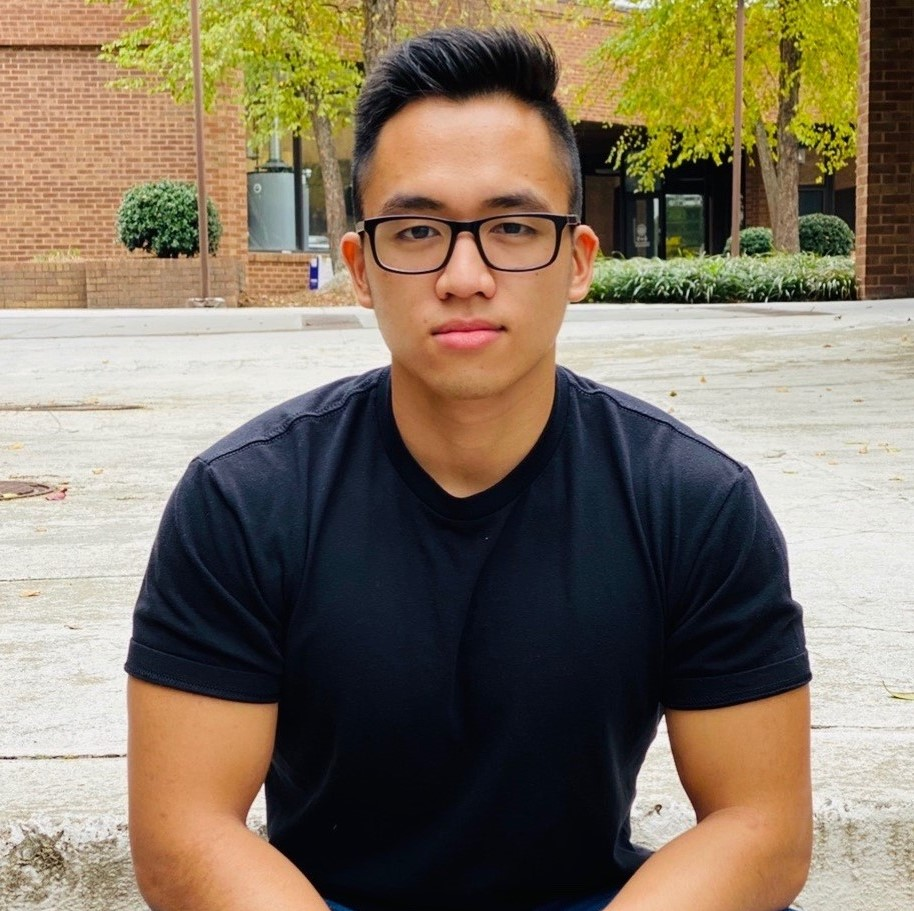
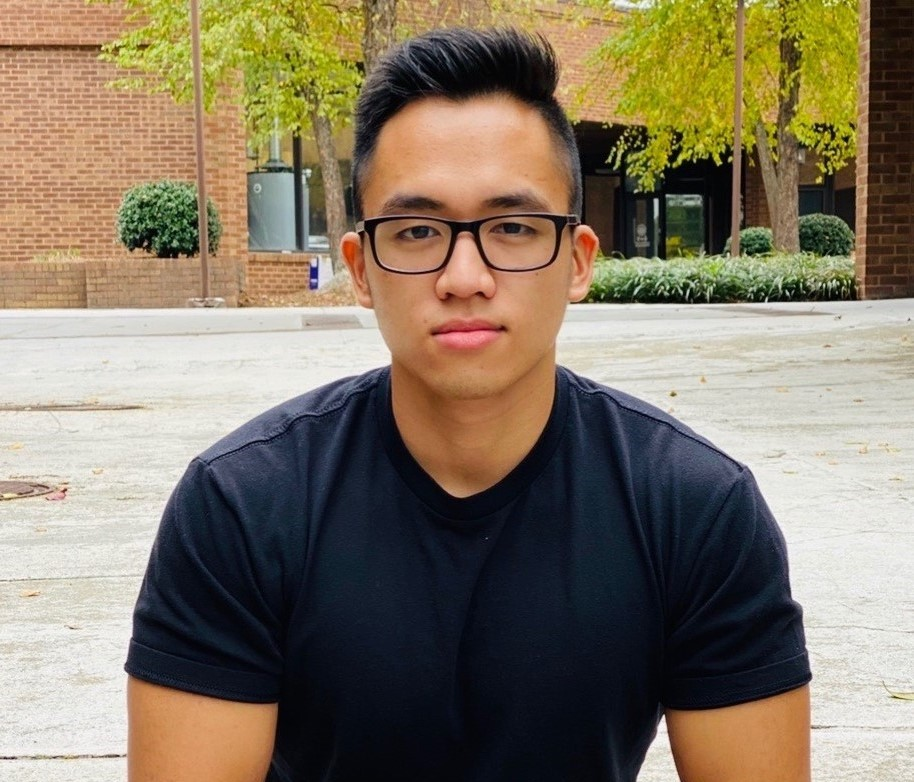
finished results
- didn't  need class sports since it didn't need to be updated in css

diff --git a/index.html b/index.html
@@ -93,7 +93,7 @@ Web Programming
             <h3>List of Hobbies & Interest</h3>
             <ul>
                 <li><span class="red">Sports</span>
-                    <ul class="sports">
+                    <ul>
                         <li>
                             <a href="https://spikeball.com">Spikeball</a>
                         </li>
@@ -176,7 +176,7 @@ Web Programming
                         <li>Technician Intern</li>
                     </ul>
                 </li>
-                
+
                 <li>Junior Achievement of Georgia
                     <ul>
                         <li>Simulator Support Staff</li>

diff --git a/style.css b/style.css
@@ -21,7 +21,7 @@ body{
 
 #headshot{
     width: 300px;
-    height: 300px;
+    height: auto;
 }
 
 a:hover{
@@ -57,6 +57,7 @@ h3{
     width:320px;
     height:50px;
     background-color: white;
+    color: black;
     font-size: 17px;
     font-weight: bold;
 }
@@ -69,10 +70,8 @@ tr:nth-child(even){
 }
 
 #quote{
-    font-family: sans-serif;
     font-style: italic;
     text-align: center;
-
 }
     
 
